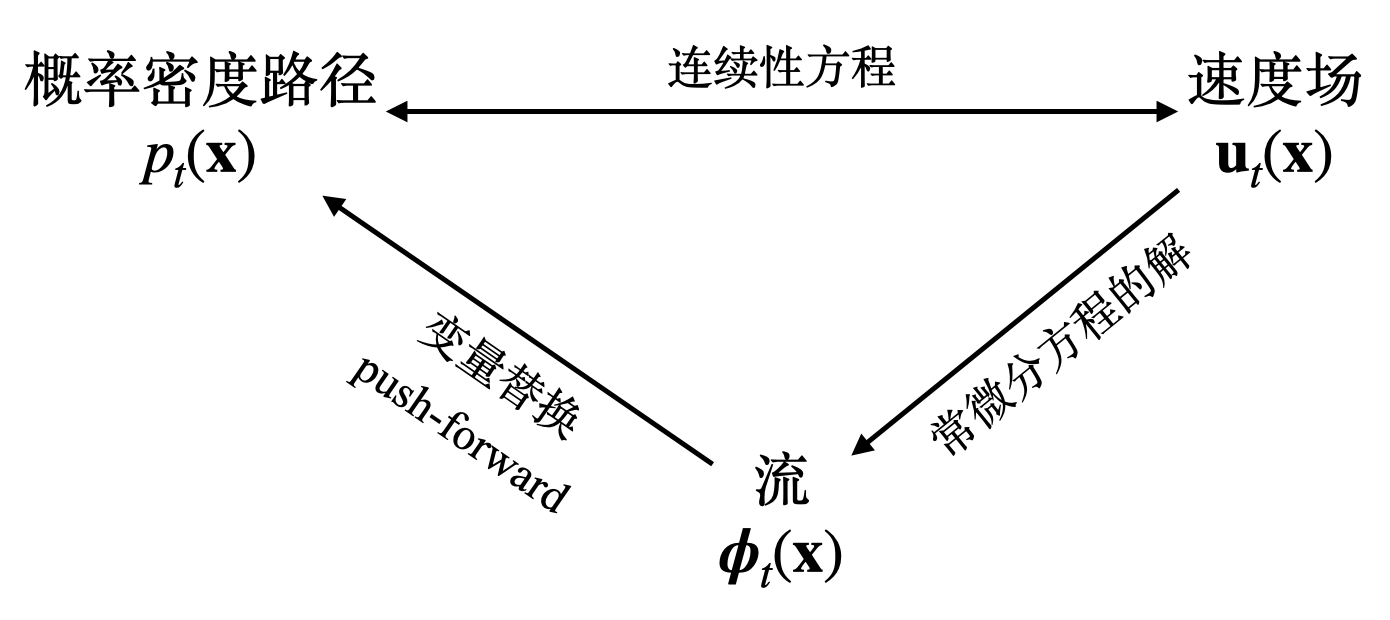
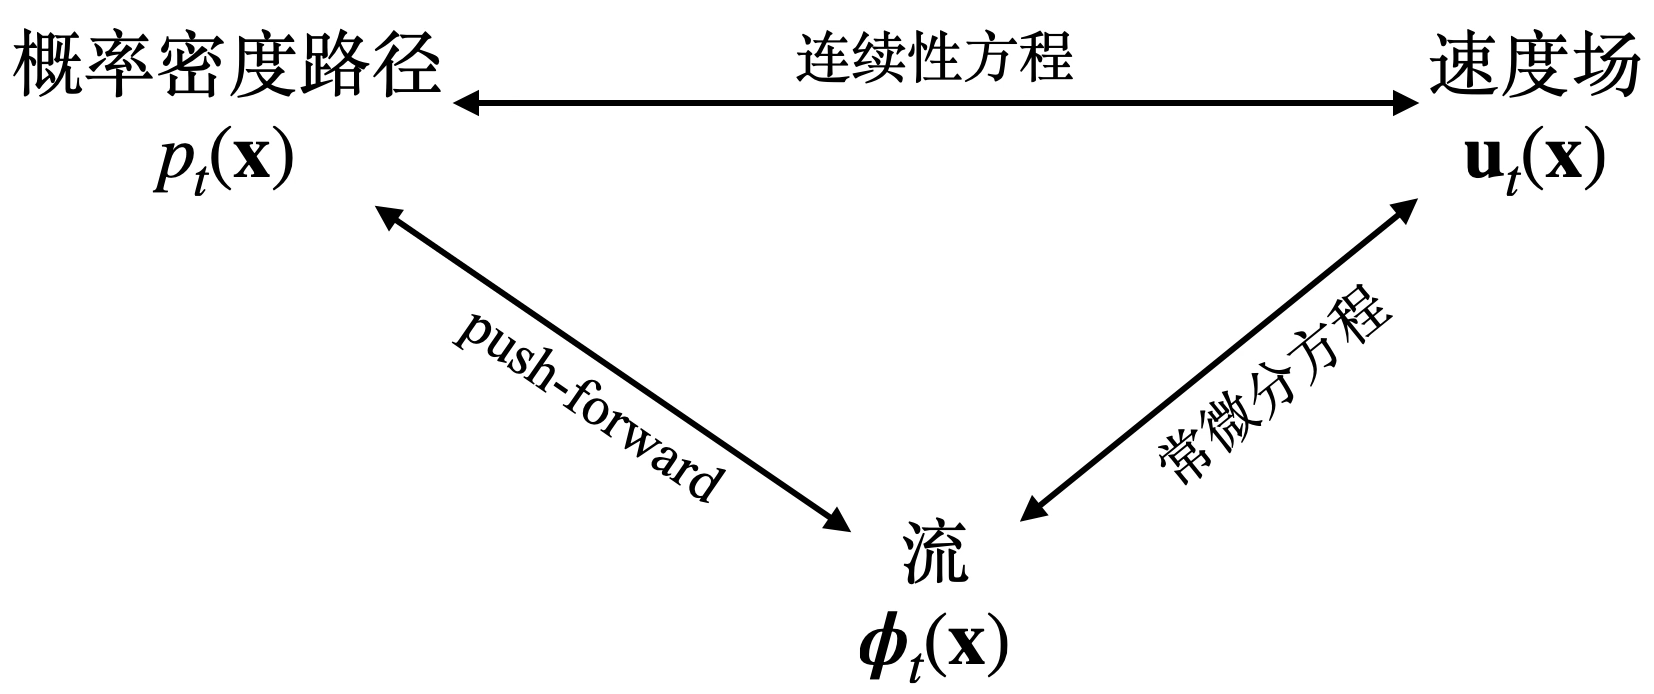
Site updated: 2025-11-13 15:46:54

diff --git a/2022/10/13/Score-Based-Generative-Models/index.html b/2022/10/13/Score-Based-Generative-Models/index.html
@@ -28,7 +28,7 @@
 <meta property="og:locale" content="zh_CN">
 <meta property="og:image" content="https://xyfjason.github.io/blog-main/gallery/cover/score-based.jpg">
 <meta property="article:published_time" content="2022-10-13T09:14:18.000Z">
-<meta property="article:modified_time" content="2025-09-09T02:26:45.327Z">
+<meta property="article:modified_time" content="2025-11-13T07:17:38.477Z">
 <meta property="article:author" content="xyfJASON">
 <meta property="article:tag" content="generative models">
 <meta name="twitter:card" content="summary_large_image">
@@ -277,7 +277,7 @@
       <span class="post-meta mr-2">
         <i class="iconfont icon-chart"></i>
         
-          6.5k 字
+          6.2k 字
         
       </span>
     
@@ -288,7 +288,7 @@
         
         
         
-          55 分钟
+          52 分钟
         
       </span>
     
@@ -339,15 +339,13 @@
 \newcommand{\T}{\mathsf T}
 \]</span></p>
 <h2 id="brief-introduction">Brief Introduction</h2>
-<p>在<a href="/blog-main/2022/09/29/%E4%BB%8EVAE%E5%88%B0DDPM/" title="从VAE到DDPM">从VAE到DDPM</a>一文中，我们从 VAE 出发得到了 DDPM 的理论框架，发现 DDPM 可以看作是具有人为指定的后验分布（即前向过程）的层次化 VAE。这一角度的代表论文是 2015 年的 Sohl-Dickstein et al.<sup id="fnref:1" class="footnote-ref"><a href="#fn:1" rel="footnote"><span class="hint--top hint--rounded" aria-label="Sohl-Dickstein, Jascha, Eric Weiss, Niru Maheswaranathan, and Surya Ganguli. Deep unsupervised learning using nonequilibrium thermodynamics. In *International Conference on Machine Learning*, pp. 2256-2265. PMLR, 2015.">[1]</span></a></sup> 和 2020 年的 DDPM<sup id="fnref:2" class="footnote-ref"><a href="#fn:2" rel="footnote"><span class="hint--top hint--rounded" aria-label="Ho, Jonathan, Ajay Jain, and Pieter Abbeel. Denoising diffusion probabilistic models. *Advances in Neural Information Processing Systems* 33 (2020): 6840-6851.">[2]</span></a></sup>。与此同时，<a target="_blank" rel="noopener" href="https://yang-song.net/">宋飏</a>博士从 score matching + Langevin dynamics (SMLD)<sup id="fnref:3" class="footnote-ref"><a href="#fn:3" rel="footnote"><span class="hint--top hint--rounded" aria-label="Song, Yang, and Stefano Ermon. Generative modeling by estimating gradients of the data distribution. *Advances in Neural Information Processing Systems* 32 (2019).">[3]</span></a></sup> 的角度出发得到了与 DDPM 本质相同的模型，称为 score-based generative models. 两个角度出发点截然不同，但殊途同归，也是非常有意思了。</p>
+<p>在<a href="/blog-main/2022/09/29/%E4%BB%8EVAE%E5%88%B0DDPM/" title="从VAE到DDPM">从VAE到DDPM</a>一文中，我们从 VAE 出发得到了 DDPM 的理论框架，发现 DDPM 可以看作是具有人为指定的后验分布（即前向过程）的层次化 VAE。这一角度的代表论文是 2015 年的 Sohl-Dickstein et al. (2015) 和 2020 年的 DDPM。与此同时，<a target="_blank" rel="noopener" href="https://yang-song.net/">宋飏</a>等人从 score matching + Langevin dynamics (SMLD) 的角度出发得到了与 DDPM 本质相同的模型，称为 score-based generative models. 两个角度出发点截然不同，但殊途同归，也是非常有意思了。</p>
 <h2 id="score-function">Score Function</h2>
 <p>考虑一个以 <span class="math inline">\(\theta\)</span> 为参数的能量模型 (EBM) <span class="math inline">\(f_\theta:\R^d\to\R\)</span>，依以下形式定义一个概率分布： <span class="math display">\[
 p_\theta(\x)=\frac{e^{-f_\theta(\x)}}{Z_\theta}\tag{1}\label{p}
-\]</span> 其中 <span class="math inline">\(Z_\theta=\int e^{-f_\theta(\x)}\mathrm{d}\x\)</span> 是归一化因子。训练生成模型无非就是希望极大化样本的对数似然：</p>
-<p><span class="math display">\[
+\]</span> 其中 <span class="math inline">\(Z_\theta=\int e^{-f_\theta(\x)}\mathrm{d}\x\)</span> 是归一化因子。训练生成模型无非就是极大化样本的对数似然： <span class="math display">\[
 \max_\theta\quad \E_{\pdata(\x)}[\log p_\theta(\x)]=\E_{\pdata(\x)}[-f_\theta(\x)]-\log Z_\theta
-\]</span> 我们发现一个问题：<span class="math inline">\(Z_\theta\)</span> 涉及对整个数据空间的积分，因而是 intractable 的。为了解决这个问题，score-based generative models 使用 <strong>score function</strong> 巧妙地回避开了 <span class="math inline">\(Z_\theta\)</span>. 对于任意一个概率分布 <span class="math inline">\(p\)</span>，score function 定义为对数概率密度函数对数据的梯度：</p>
-<p><span class="math display">\[
+\]</span> 我们发现一个问题：<span class="math inline">\(Z_\theta\)</span> 涉及对整个数据空间的积分，因而是 intractable 的。为了解决这个问题，score-based generative models 使用 <strong>score function</strong> 巧妙地回避开了 <span class="math inline">\(Z_\theta\)</span>. 对于任意一个概率分布 <span class="math inline">\(p\)</span>，score function 定义为对数概率密度函数对数据的梯度： <span class="math display">\[
 s(\x)=\nabla_\x\log p(\x)
 \]</span> 直观上，它是一个向量场，指示了从当前点去到概率密度更大的地方的方向，如下图所示：</p>
 <p><img src="https://yang-song.net/assets/img/score/score_contour.jpg" srcset="/blog-main/logo/imageloading.png" lazyload alt="source:https://yang-song.net/blog/2021/score/" width=40% /></p>
@@ -359,31 +357,27 @@ s_\theta(\x)\xrightarrow{\text{approximate}} s_\text{data}(\x)=\nabla_\x\log \pd
 <h2 id="score-matching">Score Matching</h2>
 <p>为了训练模型 <span class="math inline">\(s_\theta(\x)\)</span>，我们最小化它与 <span class="math inline">\(s_\text{data}(\x)\)</span> 的均方距离（也即是模型给出的分布和数据分布之间的 Fisher Divergence）： <span class="math display">\[
 \min_\theta\quad J_\text{ESM}(\theta)=\frac{1}{2}\E_{\pdata(\x)}\left[\|s_\text{data}(\x)-s_\theta(\x)\|_2^2\right]\tag{2}\label{esm}
-\]</span> 下标 ESM 是 Explicit Score Matching 的意思，explicit 是指该目标函数要求我们显式地知道 <span class="math inline">\(s_\text{data}(\x)\)</span>，但这恰恰是我们不知道的。围绕这个问题，我们下面介绍三种方法。</p>
+\]</span> 下标 ESM 是 Explicit Score Matching 的意思，explicit 是指该目标函数要求我们显式地知道 <span class="math inline">\(s_\text{data}(\x)\)</span>，但这恰恰是我们不知道的。围绕这个问题，我们下面介绍三种方法（注：如果你只关心扩散模型，只看 Denoising Score Matching 即可）。</p>
 <h3 id="implicit-score-matching">Implicit Score Matching</h3>
-<p>论文<sup id="fnref:5" class="footnote-ref"><a href="#fn:5" rel="footnote"><span class="hint--top hint--rounded" aria-label="Hyvärinen, Aapo, and Peter Dayan. Estimation of non-normalized statistical models by score matching. *Journal of Machine Learning Research* 6, no. 4 (2005).">[5]</span></a></sup>的作者指出，我们可以使用一个分部积分去掉 <span class="math inline">\(s_\text{data}(\x)\)</span>. 具体而言，将 <span class="math inline">\(\eqref{esm}\)</span> 式展开： <span class="math display">\[
+<p>Hyvärinen &amp; Dayan (2005) 指出，我们可以使用一个分部积分去掉 <span class="math inline">\(s_\text{data}(\x)\)</span>. 具体而言，将 <span class="math inline">\(\eqref{esm}\)</span> 式展开： <span class="math display">\[
+J_\text{ESM}(\theta)=\E_{\pdata(\x)}\left[\frac{1}{2}\|s_\text{data}(\x)\|^2-s_\text{data}(\x)^{\mathsf T} s_\theta(\x)+\frac{1}{2}\|s_\theta(\x)\|^2\right]
+\]</span> 第一项与 <span class="math inline">\(\theta\)</span> 无关可以略去，最后一项可以直接优化，因此只需处理中间项： <span class="math display">\[
 \begin{align}
-J_\text{ESM}(\theta)&amp;=\frac{1}{2}\E_{\pdata(\x)}\left[\|s_\text{data}(\x)-s_\theta(\x)\|_2^2\right]\\
-&amp;=\E_{\pdata(\x)}\left[\frac{1}{2}\|s_\text{data}(\x)\|^2-s_\text{data}(\x)^T s_\theta(\x)+\frac{1}{2}\|s_\theta(\x)\|^2\right]
-\end{align}
-\]</span> 第一项与 <span class="math inline">\(\theta\)</span> 无关可以略去，最后一项可以直接优化，而中间项还需要再处理一下： <span class="math display">\[
-\begin{align}
--\E_{\pdata(\x)}[s_\text{data}(\x)^Ts_\theta(\x)]
+-\E_{\pdata(\x)}[s_\text{data}(\x)^{\mathsf T}s_\theta(\x)]
 &amp;=-\int \pdata(\x) \sum_{i=1}^d s_\text{data}(\x)_is_\theta(\x)_i\mathrm{d}\x\\
 &amp;=-\sum_{i=1}^d \int \pdata(\x) \frac{\partial \log p_\text{data}(\x)}{\partial\x_i}s_\theta(\x)_i\mathrm{d}\x\\
-&amp;=-\sum_{i=1}^d\int \frac{\pdata(\x)}{\pdata(\x)}\frac{\partial\pdata(\x)}{\partial\x_i} s_\theta(\x)_i\mathrm{d}\x\\
 &amp;=-\sum_{i=1}^d\int \frac{\partial\pdata(\x)}{\partial\x_i} s_\theta(\x)_i \mathrm{d}\x
 \end{align}
 \]</span></p>
 <div class="note note-info">
-            <p><strong>一元函数分部积分</strong></p><p>设 <span class="math inline">\(f(x),g(x)\)</span> 是关于 <span class="math inline">\(x\)</span> 的一元函数且具有连续导数，且下文出现的积分都存在，由于： <span class="math display">\[[f(x)g(x)]&#39;=f(x)g&#39;(x)+g(x)f&#39;(x)\]</span> 两边同时在 <span class="math inline">\((-\infty,+\infty)\)</span> 上积分，得到： <span class="math display">\[\lim_{x\to+\infty}f(x)g(x)-\lim_{x\to-\infty}f(x)g(x)=\int_{-\infty}^{+\infty}f(x)g&#39;(x)\mathrm{d}x+\int_{-\infty}^{+\infty}g(x)f&#39;(x)\mathrm{d}x\]</span> 即： <span class="math display">\[\int_{-\infty}^{+\infty}f(x)g&#39;(x)\mathrm{d}x=\left.[f(x)g(x)]\right|^{+\infty}_{-\infty}-\int_{-\infty}^{+\infty}g(x)f&#39;(x)\mathrm{d}x\]</span> <strong>扩展到多元函数</strong></p><p>设 <span class="math inline">\(f(\x),g(\x)\)</span> 是关于 <span class="math inline">\(\x\)</span> 的多元标量函数，固定除 <span class="math inline">\(\x_i\)</span> 外的其他变元，所有求导均为对 <span class="math inline">\(\x_i\)</span> 的偏导，那么上述推导依旧使用，因此有结论： <span class="math display">\[\begin{align}\int_{-\infty}^{+\infty}f(\x)\frac{\partial{g(\x)}}{\partial\x_i}\mathrm{d}\x&amp;=\lim_{\x_i\to+\infty}f(\ldots,\x_i,\ldots)g(\ldots,\x_i,\ldots)\\&amp;-\lim_{\x_i\to-\infty}f(\ldots,\x_i,\ldots)g(\ldots,\x_i,\ldots)\\&amp;-\int_{-\infty}^{+\infty}g(\x)\frac{\partial{f(\x)}}{\partial\x_i}\mathrm{d}\x\end{align}\]</span></p>
+            <p><strong>复习：一元函数分部积分</strong></p><p>设 <span class="math inline">\(f(x),g(x)\)</span> 是关于 <span class="math inline">\(x\)</span> 的一元函数且具有连续导数，且下文出现的积分都存在，由于： <span class="math display">\[[f(x)g(x)]&#39;=f(x)g&#39;(x)+g(x)f&#39;(x)\]</span> 两边同时在 <span class="math inline">\((-\infty,+\infty)\)</span> 上积分，得到： <span class="math display">\[\lim_{x\to+\infty}f(x)g(x)-\lim_{x\to-\infty}f(x)g(x)=\int_{-\infty}^{+\infty}f(x)g&#39;(x)\mathrm{d}x+\int_{-\infty}^{+\infty}g(x)f&#39;(x)\mathrm{d}x\]</span> 即： <span class="math display">\[\int_{-\infty}^{+\infty}f(x)g&#39;(x)\mathrm{d}x=\left.[f(x)g(x)]\right|^{+\infty}_{-\infty}-\int_{-\infty}^{+\infty}g(x)f&#39;(x)\mathrm{d}x\]</span> <strong>扩展：多元函数分部积分</strong></p><p>设 <span class="math inline">\(f(\x),g(\x)\)</span> 是关于 <span class="math inline">\(\x\)</span> 的多元标量函数，固定除 <span class="math inline">\(\x_i\)</span> 外的其他变元，所有求导均为对 <span class="math inline">\(\x_i\)</span> 的偏导，那么上述推导依旧使用，因此有结论： <span class="math display">\[\begin{align}\int_{-\infty}^{+\infty}f(\x)\frac{\partial{g(\x)}}{\partial\x_i}\mathrm{d}\x&amp;=\lim_{\x_i\to+\infty}f(\ldots,\x_i,\ldots)g(\ldots,\x_i,\ldots)\\&amp;-\lim_{\x_i\to-\infty}f(\ldots,\x_i,\ldots)g(\ldots,\x_i,\ldots)\\&amp;-\int_{-\infty}^{+\infty}g(\x)\frac{\partial{f(\x)}}{\partial\x_i}\mathrm{d}\x\end{align}\]</span></p>
           </div>
-<p>应用分部积分，并且假设 <span class="math inline">\(\pdata(\ldots,\x_i,\ldots)s_\theta(\ldots,\x_i,\ldots)_i\to 0(\x_i\to\pm\infty)\)</span>，那么中间项变成： <span class="math display">\[
+<p>应用分部积分，并且假设 <span class="math inline">\(\pdata(\x)s_\theta(\x)\to 0\ (\Vert\x\Vert \to\infty)\)</span>，那么中间项变成： <span class="math display">\[
 \begin{align}
 -\sum_{i=1}^d\int \frac{\partial\pdata(\x)}{\partial\x_i} s_\theta(\x)_i \mathrm{d}\x
 &amp;=\sum_{i=1}^d\int \frac{\partial s_\theta(\x)_i}{\partial\x_i} \pdata(\x) \mathrm{d}\x\\
 &amp;=\int \pdata(\x) \sum_{i=1}^d \frac{\partial s_\theta(\x)_i}{\partial\x_i} \mathrm{d}\x\\
-&amp;=\E_{\x\sim\pdata}\left[\sum_{i=1}^d \frac{\partial s_\theta(\x)_i}{\partial\x_i}\right]
+&amp;=\E_{\pdata(\x)}\left[\sum_{i=1}^d \frac{\partial s_\theta(\x)_i}{\partial\x_i}\right]
 \end{align}
 \]</span> 于是最终优化目标为： <span class="math display">\[
 J_\text{ISM}(\theta)=\E_{\pdata(\x)}\left[\sum_{i=1}^d \left(\frac{\partial s_\theta(\x)_i}{\partial\x_i}+\frac{1}{2}s_\theta(\x)_i^2\right)\right]\tag{3}\label{ism}
@@ -391,11 +385,10 @@ J_\text{ISM}(\theta)=\E_{\pdata(\x)}\left[\sum_{i=1}^d \left(\frac{\partial s_\t
 J_\text{ISM}(\theta)=\E_{\pdata(\x)}\left[\text{tr}\left({\nabla_\x s_\theta(\x)}\right)+\frac{1}{2}\|s_\theta(\x)\|^2\right]\tag{3&#39;}\label{ism&#39;}
 \]</span> 当然，由于 <span class="math inline">\(s_\theta(\x)\)</span> 本身是 <span class="math inline">\(\log p_\theta(\x)\)</span> 的梯度，所以前者的 Jacobian 矩阵，也是后者的 Hessian 矩阵，所以也可以写成： <span class="math display">\[
 J_\text{ISM}(\theta)=\E_{\pdata(\x)}\left[\text{tr}\left({\nabla^2_\x \log p_\theta(\x)}\right)+\frac{1}{2}\|\nabla_\x\log p_\theta(\x)\|^2\right]\tag{3&#39;&#39;}\label{ism&#39;&#39;}
-\]</span> 只是记号上的不同罢了。</p>
-<p>可以看见，现在的优化目标期望里面已经没有 <span class="math inline">\(\pdata(\x)\)</span> 或 <span class="math inline">\(s_\text{data}(\x)\)</span> 了，而期望本身通过训练过程的采样来近似。</p>
+\]</span> 只是记号上的不同罢了。可以看见，现在的优化目标里没有 <span class="math inline">\(s_\text{data}(\x)\)</span> 了，因而可以依此训练。</p>
 <p>当然，上述推导过程要成立也有一些条件，比如用分部积分要求 <span class="math inline">\(s_\theta(\x)\)</span> 和 <span class="math inline">\(\pdata(\x)\)</span> 可导，出现的所有期望要存在，以及上文已经提到过的 <span class="math inline">\(\pdata(\x)s_\theta(\x)\to 0\ (\Vert\x\Vert \to\infty)\)</span>. 好在这些条件都容易满足。</p>
 <h3 id="denoising-score-matching">Denoising Score Matching</h3>
-<p>上文中，我们使用分部积分巧妙地去掉了 <span class="math inline">\(s_\text{data}(\x)=\nabla_\x \log\pdata(\x)\)</span>，但是代价是引入了 <span class="math inline">\(\text{tr}\left(\nabla_\x s_\theta(\x)\right)\)</span>，意味着我们还要对 score function 求导（即求 <span class="math inline">\(\log\pdata(\x)\)</span> 的 Hessian 矩阵）。虽然这个操作可以通过 <code>torch.autograd.grad()</code> 实现，但反向传播次数增加了 <span class="math inline">\(d\)</span> 倍（<span class="math inline">\(d\)</span> 为数据维数），在深度网络和高维数据的场景下效率很差。另一种直接的想法是，既然我们不知道 <span class="math inline">\(\pdata\)</span>，那就对数据做非参估计呗。考虑使用带高斯核的 Parzen 窗做非参估计（也即核密度估计）： <span class="math display">\[
+<p>上文中，我们使用分部积分巧妙地去掉了 <span class="math inline">\(s_\text{data}(\x)=\nabla_\x \log\pdata(\x)\)</span>，但是代价是引入了 <span class="math inline">\(\text{tr}\left(\nabla_\x s_\theta(\x)\right)\)</span>，意味着我们还要对 score function 求导。虽然这个操作可以通过 <code>torch.autograd.grad()</code> 实现，但反向传播次数增加了 <span class="math inline">\(d\)</span> 倍（<span class="math inline">\(d\)</span> 为数据维数），在深度网络和高维数据的场景下效率很差。另一种直接的想法是，既然我们不知道 <span class="math inline">\(\pdata\)</span>，那就对数据做非参估计呗。考虑使用带高斯核的 Parzen 窗做非参估计（也即核密度估计）： <span class="math display">\[
 \begin{align}
 &amp;q_\sigma(\tilde\x)=\frac{1}{N}\sum_{i=1}^N K_\sigma\left(\tilde\x-\x_i\right)\\
 &amp;K_\sigma(\tilde\x-\x_i)=\frac{1}{(2\pi)^{d/2}\sigma^d}e^{-\frac{1}{2\sigma^2}\|\tilde\x-\x_i\|_2^2}
@@ -428,13 +421,11 @@ J_\text{DSM}(\theta)=\E_{q_\sigma(\tilde\x,\x)}\left[\frac{1}{2}\left\|\nabla_{\
 \]</span></p>
 <p>直观上，<span class="math inline">\(\x-\tilde\x\)</span> 指出了加噪数据 <span class="math inline">\(\tilde\x\)</span> 回到无噪声数据的移动方向，这正与 score function 的定义相符。</p>
 <h3 id="sliced-score-matching">Sliced Score Matching</h3>
-<blockquote>
-<p>本节其实与以去噪为基础的扩散模型关系不大，但为了完整性，同时考虑到它也是宋飏大佬的工作，就顺便读了读论文。</p>
-</blockquote>
-<p>Denoising score matching 虽然解决了 implicit score matching 无法 scale 到深度网络和高维数据的问题，但是本身也有两个问题：只能学习带有噪声的分布、性能对 noise level 很敏感。而宋飏等人在 2020 年提出的 sliced score matching<sup id="fnref:7" class="footnote-ref"><a href="#fn:7" rel="footnote"><span class="hint--top hint--rounded" aria-label="Song, Yang, Sahaj Garg, Jiaxin Shi, and Stefano Ermon. Sliced score matching: A scalable approach to density and score estimation. In *Uncertainty in Artificial Intelligence*, pp. 574-584. PMLR, 2020.">[7]</span></a></sup> 是另一种解决方法，其思想是把 <span class="math inline">\(s_\theta(\x)\)</span> 随机投影到向量 <span class="math inline">\(\mathbf v\)</span> 上，只在投影的方向上做匹配。具体而言，<span class="math inline">\(\eqref{esm}\)</span> 式改写作：</p>
-<p><span class="math display">\[
+<p>Denoising score matching 虽然解决了 implicit score matching 无法 scale 到深度网络和高维数据的问题，但是本身也有两个问题：只能学习带有噪声的分布、性能对 noise level 很敏感。而宋飏等人在 2020 年提出的 sliced score matching 是另一种解决方法，其思想是把 <span class="math inline">\(s_\theta(\x)\)</span> 随机投影到向量 <span class="math inline">\(\mathbf v\)</span> 上，只在投影的方向上做匹配。具体而言，<span class="math inline">\(\eqref{esm}\)</span> 式改写作： <span class="math display">\[
 J_\text{SSM(explicit)}=\frac{1}{2}\E_{p_{\v}(\v)}\E_{\pdata(\x)}\left[\left(\v^\T s_\text{data}(\x)-\v^\T s_\theta(\x)\right)^2\right]
-\]</span> 并要求 <span class="math inline">\(\E_{p_\v(\v)}[\v\v^\T]\succ 0\)</span> 且 <span class="math inline">\(\E_{p_\v(\v)}\left[\Vert\v\Vert_2^2\right]&lt;\infty\)</span>. 常用的 <span class="math inline">\(p_\v(\v)\)</span> 包括标准多元正态分布 <span class="math inline">\(\mathcal N(0,\mathbf I)\)</span>、多元 Rademacher 分布（<span class="math inline">\(\{\pm 1\}^d\)</span> 上的均匀分布）、超球面 <span class="math inline">\(\mathbb S^{d-1}\)</span> 上的均匀分布等。</p>
+\]</span> 其中投影方向 <span class="math inline">\(\mathbf v\)</span> 应满足： <span class="math display">\[
+\E_{p_\v(\v)}[\v\v^\T]\succ 0,\quad\E_{p_\v(\v)}\left[\Vert\v\Vert_2^2\right]&lt;\infty
+\]</span> 常用的 <span class="math inline">\(p_\v(\v)\)</span> 包括标准多元正态分布 <span class="math inline">\(\mathcal N(0,\mathbf I)\)</span>、多元 Rademacher 分布（<span class="math inline">\(\{\pm 1\}^d\)</span> 上的均匀分布）、超球面 <span class="math inline">\(\mathbb S^{d-1}\)</span> 上的均匀分布等。</p>
 <p>与原始 score matching 类似，我们可以用分部积分去掉 <span class="math inline">\(s_\text{data}(\x)\)</span>. 同样只需着重考虑中间项： <span class="math display">\[
 \begin{align}
 -\E_{p_{\v}(\v)}\left[\E_{\pdata(\x)}\left[\left(\v^\T s_\text{data}(\x)\right)\left(\v^\T s_\theta(\x)\right)\right]\right]
@@ -452,7 +443,7 @@ J_\text{SSM(explicit)}=\frac{1}{2}\E_{p_{\v}(\v)}\E_{\pdata(\x)}\left[\left(\v^\
 =&amp;-\E_{p_{\v}(\v)}\left[\sum_{i=1}^d v_i\left(\lim_{\x_i\to+\infty}\pdata(\x)\left(\v^\T s_\theta(\x)\right)-\lim_{\x_i\to-\infty}\pdata(\x)\left(\v^\T s_\theta(\x)\right)\right)\right]+\E_{p_\v(\v)}\left[\int\pdata(\x)\left(\sum_{i=1}^d v_i\v^\T \frac{\partial s_\theta(\x))}{\partial\x_i}\right)\mathrm{d}\x\right]\\
 =&amp;-\E_{p_{\v}(\v)}\left[\sum_{i=1}^d v_i\left(\lim_{\x_i\to+\infty}\pdata(\x)\left(\v^\T s_\theta(\x)\right)-\lim_{\x_i\to-\infty}\pdata(\x)\left(\v^\T s_\theta(\x)\right)\right)\right]+\E_{p_\v(\v)}\left[\E_{\pdata(\x)}\left[\v^\T \nabla_\x s_\theta(\x)\v\right]\right]\\
 \end{align}
-\]</span> 后面那项是我们想要的，现在需要证明前面那项等于 0. 在原始 score matching 中，我们是通过假设 <span class="math inline">\(\pdata(\x)s_\theta(\x)\to 0\ (\Vert\x\Vert\to \infty)\)</span> 完成的，但是现在多了个 <span class="math inline">\(\v\)</span> 来搅局。不过好在最后要对 <span class="math inline">\(p_\v(\v)\)</span> 求期望，所以我们依旧能够期待前项可以等于 0. 利用绝对值不等式把 <span class="math inline">\(\v\)</span> 拆出来，并利用柯西不等式，我们有： <span class="math display">\[
+\]</span> 后面那项是我们想要的，现在需要证明前面那项等于 0. 在原始 score matching 中，这是通过假设 <span class="math inline">\(\pdata(\x)s_\theta(\x)\to 0\ (\Vert\x\Vert\to \infty)\)</span> 完成的，但是现在多了个 <span class="math inline">\(\v\)</span> 来搅局。不过好在最后要对 <span class="math inline">\(p_\v(\v)\)</span> 求期望，所以我们依旧能够期待前项可以等于 0. 利用绝对值不等式把 <span class="math inline">\(\v\)</span> 拆出来，并利用柯西不等式，我们有： <span class="math display">\[
 \begin{align}
 &amp;~\left|\E_{p_{\v}(\v)}\left[\sum_{i=1}^d v_i\left(\lim_{\x_i\to+\infty}\pdata(\x)\left(\v^\T s_\theta(\x)\right)-\lim_{\x_i\to-\infty}\pdata(\x)\left(\v^\T s_\theta(\x)\right)\right)\right]\right|\\
 \leq&amp;~\left|\E_{p_{\v}(\v)}\left[\sum_{i=1}^d v_i\left(\lim_{\x_i\to+\infty}\pdata(\x)\left(\v^\T s_\theta(\x)\right)\right)\right]\right|+\left|\E_{p_\v(\v)}\left[\sum_{i=1}^d v_i\left(\lim_{\x_i\to-\infty}\pdata(\x)\left(\v^\T s_\theta(\x)\right)\right)\right]\right|\\
@@ -484,8 +475,8 @@ J_\text{SSM-VR}=\E_{\pdata(\x)}\left[\E_{p_\v(\v)}\left[\v^\T \nabla_\x s_\theta
 <p><img src="https://yang-song.net/assets/img/score/pitfalls.jpg" srcset="/blog-main/logo/imageloading.png" lazyload alt="source:https://yang-song.net/blog/2021/score/" width=80% /></p>
 <p>又由于我们的初始化点极有可能落在低密度区域中，所以不准确的 score function 将对采样过程产生极大的影响。</p>
 <p>其次，即便 score function 能被准确预测，但对于被低密度区域隔开的两个分布来说，Langevin dynamics 很难在有限步数内收敛到正确的分布（尽管 Langevin dynamics 在理论上能收敛到正确的分布，但可能需要很小的步长和很多的步数），如图所示：</p>
-<p><img src="fig3.png" srcset="/blog-main/logo/imageloading.png" lazyload alt="source:Generative modeling by estimating gradients of the data distribution." width=80% /></p>
-<p>真实情况是右上的正态分布权重更大，但中图的采样结果显示两个分布被予以了几乎相同的权重。</p>
+<p><img src="fig3.png" srcset="/blog-main/logo/imageloading.png" lazyload alt="source:Generative modeling by estimating gradients of the data distribution." width=60% /></p>
+<p>真实情况是右上的正态分布权重更大，但采样结果显示两个分布被予以了几乎相同的权重。</p>
 <p>宋飏等人提出解决这两个问题的办法是：<strong>给数据添加高斯噪声，并且随着 Langevin dynamics 的进行逐渐减小 noise level（退火）</strong>。添加噪声后的数据遍布整个空间，填充了低密度区域，因此模型能够得到更多的监督信号，Langevin dynamics 也能更快的收敛到高密度区域；同时，逐渐减小的噪声使得带噪分布最终收敛到真实分布，因此也能保证采样质量不受影响。</p>
 <p><img src="https://yang-song.net/assets/img/score/single_noise.jpg" srcset="/blog-main/logo/imageloading.png" lazyload alt="source:https://yang-song.net/blog/2021/score/" width=80% /></p>
 <p>形式化地说，我们确定一个逐渐减小的噪声序列 <span class="math inline">\(\{\sigma_i\}_{i=1}^L\)</span>，那么对应 <span class="math inline">\(\sigma_i\)</span> 的噪声扰动后的数据分布为： <span class="math display">\[
@@ -494,8 +485,7 @@ q_{\sigma_i}(\x)=\int\pdata(\mathbf t) \mathcal N\left(\x;\mathbf t,\sigma_i^2\m
 s_\theta(\x, \sigma_i)\xrightarrow{\text{approximate}} \nabla_\x\log q_{\sigma_i}(\x)
 \]</span> 于是训练目标就是对每一个 noise level 做 score matching： <span class="math display">\[
 \mathcal L\left(\theta,\{\sigma_i\}_{i=1}^L\right)=\frac{1}{L}\sum_{i=1}^L \lambda(\sigma_i)\E_{q_{\sigma_i}(\x)}\left[\|\nabla_\x\log q_{\sigma_i}(\x)-s_\theta(\x,\sigma_i) \|^2\right]
-\]</span> 其中 <span class="math inline">\(\lambda(\sigma_i)\)</span> 是给不同 noise level 加的权重。考虑到 denoising score matching 正好符合现在的加噪去噪设定，所以我们选择它而非 sliced score matching. 根据前文的叙述，训练目标变换为：</p>
-<p><span class="math display">\[
+\]</span> 其中 <span class="math inline">\(\lambda(\sigma_i)\)</span> 是给不同 noise level 加的权重。考虑到 denoising score matching 正好符合现在的加噪去噪设定，所以我们选择它而非 sliced score matching. 根据前文的推导，训练目标变换为： <span class="math display">\[
 \begin{align}
 \mathcal L\left(\theta,\{\sigma_i\}_{i=1}^L\right)&amp;=\frac{1}{L}\sum_{i=1}^L \lambda(\sigma_i)\E_{\pdata(\x)}\E_{q_{\sigma_i}(\tilde\x\vert\x)}\left[\frac{1}{2}\left\|\nabla_{\tilde\x}\log q_{\sigma_i}(\tilde \x\vert\x) -s_\theta(\tilde\x,\sigma_i)\right\|^2 \right]\\
 &amp;=\frac{1}{L}\sum_{i=1}^L \lambda(\sigma_i)\E_{\pdata(\x)}\E_{q_{\sigma_i}(\tilde\x\vert\x)}\left[\frac{1}{2}\left\|\frac{\x-\tilde\x}{\sigma_i^2} -s_\theta(\tilde\x,\sigma_i)\right\|^2 \right]
@@ -505,18 +495,6 @@ s_\theta(\x, \sigma_i)\xrightarrow{\text{approximate}} \nabla_\x\log q_{\sigma_i
 <p>训练完成后，我们就可以随机初始化采样点，逐渐减小 noise level，在每个 level 下通过 Langevin dynamics 以步长 <span class="math inline">\(\alpha_i\)</span> 更新若干步，最终生成新的数据。算法流程图如下所示：</p>
 <p><img src="alg.png" srcset="/blog-main/logo/imageloading.png" lazyload alt="source:Generative modeling by estimating gradients of the data distribution." width=40% /></p>
 <p>其中步长设置为 <span class="math inline">\(\alpha_i=\epsilon\cdot\sigma_i^2/\sigma_L^2\propto \sigma_i^2\)</span> 的动机是保证不同 noise level 下 Langevin dynamics 的信噪比 <span class="math inline">\(\frac{\alpha_i s_\theta(\x,\sigma_i)}{2\sqrt{\alpha_i}\mathbf z}\)</span> 的模长固定。</p>
-<p><br/></p>
-<p>这一代的 NCSN 已然能与 GAN 媲美，但局限在 32x32 的大小。在后续的工作<sup id="fnref:4" class="footnote-ref"><a href="#fn:4" rel="footnote"><span class="hint--top hint--rounded" aria-label="Song, Yang, and Stefano Ermon. Improved techniques for training score-based generative models. *Advances in neural information processing systems* 33 (2020): 12438-12448.">[4]</span></a></sup>中，宋飏等人探索了更多的技巧，进一步地提升了图像生成质量，并能稳定生成 256x256 的图片。这些技巧包括：</p>
-<ul>
-<li><p>选择 <span class="math inline">\(\sigma_1\)</span> 与训练数据中两两之间的最大欧氏距离差不多大。</p></li>
-<li><p>选择 <span class="math inline">\(\{\sigma_i\}_{i=1}^L\)</span> 为公比为 <span class="math inline">\(\gamma\)</span> 的等比序列，且 <span class="math display">\[
-\Phi\left(\sqrt{2d}(\gamma-1)+3\gamma\right)-\Phi\left(\sqrt{2d}(\gamma-1)-3\gamma\right)\approx 0.5
-\]</span></p></li>
-<li><p>将 NCSN 参数化为 <span class="math inline">\(s_\theta(\x,\sigma)=s_\theta(\x)/\sigma\)</span>，其中 <span class="math inline">\(s_\theta(\x)\)</span> 是一个无条件的网络。</p></li>
-<li><p>选择 <span class="math inline">\(T\)</span>（每个 noise level 下 Langevin dynamics 的步数）在可承受范围尽可能大，并选择 <span class="math inline">\(\epsilon\)</span>（Langevin dynamics 里与步长有关的参数）使得一个复杂的式子（懒得抄了）约等于 <span class="math inline">\(1\)</span>.</p></li>
-<li><p>在采样的时候使用 EMA model.</p></li>
-</ul>
-<p>具体内容和分析本文不再叙述，感兴趣的读者可以去看论文。</p>
 <h2 id="connection-to-ddpm">Connection to DDPM</h2>
 <p>在引言里，我们说 SMLD 和 DDPM 本质是相同的，现在来看看为什么。</p>
 <h3 id="forward-process">Forward Process</h3>
@@ -587,25 +565,25 @@ s_\theta(\x_t,t)=-\frac{1}{\sqrt{1-\bar\alpha_t}}\epsilon_\theta(\x_t,t)\tag{10}
 <span id="fn:7" class="footnote-text"><span>Song, Yang, Sahaj Garg, Jiaxin Shi, and Stefano Ermon. Sliced score matching: A scalable approach to density and score estimation. In <em>Uncertainty in Artificial Intelligence</em>, pp. 574-584. PMLR, 2020. <a href="#fnref:7" rev="footnote" class="footnote-backref"> ↩</a></span></span>
 </li>
 <li>
-<span id="fn:8" class="footnote-text"><span>Yang Song. Generative Modeling by Estimating Gradients of the Data Distribution. https://yang-song.net/blog/2021/score/ <a href="#fnref:8" rev="footnote" class="footnote-backref"> ↩</a></span></span>
+<span id="fn:8" class="footnote-text"><span>Yang Song. Sliced Score Matching: A Scalable Approach to Density and Score Estimation. <a target="_blank" rel="noopener" href="https://yang-song.net/blog/2019/ssm/" class="uri">https://yang-song.net/blog/2019/ssm/</a> <a href="#fnref:8" rev="footnote" class="footnote-backref"> ↩</a></span></span>
 </li>
 <li>
-<span id="fn:9" class="footnote-text"><span>Denoising Diffusion-based Generative Modeling: Foundations and Applications. https://cvpr2022-tutorial-diffusion-models.github.io <a href="#fnref:9" rev="footnote" class="footnote-backref"> ↩</a></span></span>
+<span id="fn:9" class="footnote-text"><span>Yang Song. Generative Modeling by Estimating Gradients of the Data Distribution. <a target="_blank" rel="noopener" href="https://yang-song.net/blog/2021/score/" class="uri">https://yang-song.net/blog/2021/score/</a> <a href="#fnref:9" rev="footnote" class="footnote-backref"> ↩</a></span></span>
 </li>
 <li>
-<span id="fn:10" class="footnote-text"><span>Chih-Sheng Chen. Score Matching 系列 (一) Non-normalized 模型估計. https://bobondemon.github.io/2022/01/08/Estimation-of-Non-Normalized-Statistical-Models-by-Score-Matching/ <a href="#fnref:10" rev="footnote" class="footnote-backref"> ↩</a></span></span>
+<span id="fn:10" class="footnote-text"><span>Denoising Diffusion-based Generative Modeling: Foundations and Applications. <a target="_blank" rel="noopener" href="https://cvpr2022-tutorial-diffusion-models.github.io" class="uri">https://cvpr2022-tutorial-diffusion-models.github.io</a> <a href="#fnref:10" rev="footnote" class="footnote-backref"> ↩</a></span></span>
 </li>
 <li>
-<span id="fn:11" class="footnote-text"><span>Chih-Sheng Chen. Score Matching 系列 (二) Denoising Score Matching (DSM) 改善效率並可 Scalable. https://bobondemon.github.io/2022/03/06/A-Connection-Between-Score-Matching-and-Denoising-Autoencoders/ <a href="#fnref:11" rev="footnote" class="footnote-backref"> ↩</a></span></span>
+<span id="fn:11" class="footnote-text"><span>Chih-Sheng Chen. Score Matching 系列 (一) Non-normalized 模型估計. <a target="_blank" rel="noopener" href="https://bobondemon.github.io/2022/01/08/Estimation-of-Non-Normalized-Statistical-Models-by-Score-Matching/" class="uri">https://bobondemon.github.io/2022/01/08/Estimation-of-Non-Normalized-Statistical-Models-by-Score-Matching/</a> <a href="#fnref:11" rev="footnote" class="footnote-backref"> ↩</a></span></span>
 </li>
 <li>
-<span id="fn:12" class="footnote-text"><span>Chih-Sheng Chen. Score Matching 系列 (三) Sliced Score Matching (SSM) 同時保持效率和效果. https://bobondemon.github.io/2022/03/06/Sliced-Score-Matching-A-Scalable-Approach-to-Density-and-Score-Estimation/ <a href="#fnref:12" rev="footnote" class="footnote-backref"> ↩</a></span></span>
+<span id="fn:12" class="footnote-text"><span>Chih-Sheng Chen. Score Matching 系列 (二) Denoising Score Matching (DSM) 改善效率並可 Scalable. <a target="_blank" rel="noopener" href="https://bobondemon.github.io/2022/03/06/A-Connection-Between-Score-Matching-and-Denoising-Autoencoders/" class="uri">https://bobondemon.github.io/2022/03/06/A-Connection-Between-Score-Matching-and-Denoising-Autoencoders/</a> <a href="#fnref:12" rev="footnote" class="footnote-backref"> ↩</a></span></span>
 </li>
 <li>
-<span id="fn:13" class="footnote-text"><span>扩散模型与能量模型，Score-Matching和SDE，ODE的关系 - 中森的文章 - 知乎 https://zhuanlan.zhihu.com/p/576779879 <a href="#fnref:13" rev="footnote" class="footnote-backref"> ↩</a></span></span>
+<span id="fn:13" class="footnote-text"><span>Chih-Sheng Chen. Score Matching 系列 (三) Sliced Score Matching (SSM) 同時保持效率和效果. <a target="_blank" rel="noopener" href="https://bobondemon.github.io/2022/03/06/Sliced-Score-Matching-A-Scalable-Approach-to-Density-and-Score-Estimation/" class="uri">https://bobondemon.github.io/2022/03/06/Sliced-Score-Matching-A-Scalable-Approach-to-Density-and-Score-Estimation/</a> <a href="#fnref:13" rev="footnote" class="footnote-backref"> ↩</a></span></span>
 </li>
 <li>
-<span id="fn:14" class="footnote-text"><span>Yang Song. Sliced Score Matching: A Scalable Approach to Density and Score Estimation. https://yang-song.net/blog/2019/ssm/ <a href="#fnref:14" rev="footnote" class="footnote-backref"> ↩</a></span></span>
+<span id="fn:14" class="footnote-text"><span>扩散模型与能量模型，Score-Matching和SDE，ODE的关系 - 中森的文章 - 知乎 <a target="_blank" rel="noopener" href="https://zhuanlan.zhihu.com/p/576779879" class="uri">https://zhuanlan.zhihu.com/p/576779879</a> <a href="#fnref:14" rev="footnote" class="footnote-backref"> ↩</a></span></span>
 </li>
 </ol>
 </div>

diff --git a/2024/06/22/Flow-Matching/index.html b/2024/06/22/Flow-Matching/index.html
@@ -28,7 +28,7 @@
 <meta property="og:locale" content="zh_CN">
 <meta property="og:image" content="https://xyfjason.github.io/blog-main/gallery/cover/flow-matching.jpg">
 <meta property="article:published_time" content="2024-06-22T13:08:11.000Z">
-<meta property="article:modified_time" content="2025-11-12T03:06:35.288Z">
+<meta property="article:modified_time" content="2025-11-13T07:44:31.957Z">
 <meta property="article:author" content="xyfJASON">
 <meta property="article:tag" content="generative models">
 <meta name="twitter:card" content="summary_large_image">
@@ -335,8 +335,7 @@
 <h3 id="概率密度路径">概率密度路径</h3>
 <p>粒子在流动的过程中，其概率分布在不断地改变。为描述各个时刻的概率分布，定义<strong>概率密度路径 (probability density path)</strong> 为： <span class="math display">\[
 p:[0,1]\times \mathbb R^d\to\mathbb R_{&gt;0},\quad(t,\mathbf x)\mapsto p_t(\mathbf x)
-\]</span> 其中 <span class="math inline">\(p_t(\mathbf x)\)</span> 表示 <span class="math inline">\(t\)</span> 时刻 <span class="math inline">\(\mathbf x\)</span> 位置处的概率密度。称之为“路径”是因为 <span class="math inline">\(t\mapsto p_t\)</span> 可以视作无限维概率分布空间中的流形上的一条路径。</p>
-<p>显然，对任意时刻 <span class="math inline">\(t\in[0,1]\)</span>，概率密度 <span class="math inline">\(p_t(\mathbf x)\)</span> 都应满足归一化条件：<span class="math inline">\(\int p_t(\mathbf x)\mathrm d\mathbf x=1\)</span>. 因此，区别于一般的流体，我们称这种模型为归一化流；又由于时间是连续的，因此称为连续归一化流。</p>
+\]</span> 其中 <span class="math inline">\(p_t(\mathbf x)\)</span> 表示 <span class="math inline">\(t\)</span> 时刻 <span class="math inline">\(\mathbf x\)</span> 位置处的概率密度。称之为“路径”是因为 <span class="math inline">\(t\mapsto p_t\)</span> 可以视作无限维概率分布空间中的流形上的一条路径。显然，对任意时刻 <span class="math inline">\(t\in[0,1]\)</span>，概率密度 <span class="math inline">\(p_t(\mathbf x)\)</span> 都应满足归一化条件：<span class="math inline">\(\int p_t(\mathbf x)\mathrm d\mathbf x=1\)</span>. 因此，区别于一般的流体，我们称这种模型为归一化流；又由于时间是连续的，因此称为连续归一化流。</p>
 <h3 id="速度场与连续性方程">速度场与连续性方程</h3>
 <p>考虑空间中粒子在各个时刻的瞬时速度，定义<strong>速度场 (velocity field)</strong> 为： <span class="math display">\[
 \mathbf u:[0,1]\times\mathbb R^d\to\mathbb R^d,\quad (t,\mathbf x)\mapsto \mathbf u_t(\mathbf x)
@@ -344,10 +343,10 @@ p:[0,1]\times \mathbb R^d\to\mathbb R_{&gt;0},\quad(t,\mathbf x)\mapsto p_t(\mat
 \frac{\partial}{\partial t}p_t(\mathbf x)+\nabla\cdot(p_t(\mathbf x)\mathbf u_t(\mathbf x))=0
 \]</span> 直观上，连续性方程的第一项表示单位时间内 <span class="math inline">\(\mathbf x\)</span> 位置处粒子的增加/减少量，第二项表示单位时间内 <span class="math inline">\(\mathbf x\)</span> 位置处粒子的流出/流入量，显然粒子增加量就是流入量，因此连续性方程成立。熟悉随机微分方程的读者可能会发现，连续性方程其实就是 Fokker-Planck 方程在扩散项为零时的情形。</p>
 <p>值得注意的是，概率密度路径与速度场不是一一对应的关系，不同的速度场可以产生相同的概率密度路径。例如，给 <span class="math inline">\(\mathbf u_t(\mathbf x)\)</span> 加上散度为零的场（无源场），就得到了一个新的速度场，并且连续性方程依旧成立，所以概率密度路径不变。</p>
-<h3 id="流与变量替换">流与变量替换</h3>
+<h3 id="流与-push-forward-方程">流与 push-forward 方程</h3>
 <p>粒子沿着速度场运动，得到的轨迹称为<strong>流 (flow)</strong>。具体而言，记流为： <span class="math display">\[
 \boldsymbol\phi:[0,1]\times\mathbb R^d\to\mathbb R^d,\quad (t,\mathbf x)\mapsto\boldsymbol\phi_t(\mathbf x)
-\]</span> 其中 <span class="math inline">\(\boldsymbol\phi_t(\mathbf x)\)</span> 表示 <span class="math inline">\(0\)</span> 时刻位于 <span class="math inline">\(\mathbf x\)</span> 处的粒子在 <span class="math inline">\(t\)</span> 时刻运动到的位置。换句话说，随着 <span class="math inline">\(t\)</span> 从 0 到 1 变化，<span class="math inline">\(\boldsymbol\phi_t(\mathbf x)\)</span> 形成了从 <span class="math inline">\(\mathbf x\)</span> 位置出发的粒子运动的轨迹。流与速度场的关系可由下述常微分方程描述： <span class="math display">\[
+\]</span> 其中 <span class="math inline">\(\boldsymbol\phi_t(\mathbf x)\)</span> 表示 <span class="math inline">\(0\)</span> 时刻位于 <span class="math inline">\(\mathbf x\)</span> 处的粒子在 <span class="math inline">\(t\)</span> 时刻运动到的位置。换句话说，随着 <span class="math inline">\(t\)</span> 从 0 到 1 变化，<span class="math inline">\(\boldsymbol\phi_t(\mathbf x)\)</span> 形成了从 <span class="math inline">\(\mathbf x\)</span> 位置出发的粒子运动的轨迹。给定一个速度场，流可定义为下述常微分方程的解： <span class="math display">\[
 \begin{align}
 \frac{\partial}{\partial t}\boldsymbol\phi_t(\mathbf x)&amp;=\mathbf u_t(\boldsymbol\phi_t(\mathbf x))\\
 \boldsymbol\phi_0(\mathbf x)&amp;=\mathbf x

diff --git a/2024/03/02/子空间的距离/index.html b/2024/03/02/子空间的距离/index.html
@@ -30,8 +30,8 @@
 <meta property="article:published_time" content="2024-03-02T12:30:11.000Z">
 <meta property="article:modified_time" content="2025-09-09T11:37:32.282Z">
 <meta property="article:author" content="xyfJASON">
-<meta property="article:tag" content="linear algebra">
 <meta property="article:tag" content="machine learning">
+<meta property="article:tag" content="linear algebra">
 <meta name="twitter:card" content="summary_large_image">
 <meta name="twitter:image" content="https://xyfjason.github.io/blog-main/gallery/cover/distance-subspace.jpeg">
   
@@ -538,9 +538,9 @@ A^\mathsf TB=U(\cos\Theta)V^\mathsf T,\quad \Theta=\text{diag}\left(\theta_1,\ld
     <div class="post-meta">
       <i class="iconfont icon-tags"></i>
       
-        <a href="/blog-main/tags/linear-algebra/" class="print-no-link">#linear algebra</a>
-      
         <a href="/blog-main/tags/machine-learning/" class="print-no-link">#machine learning</a>
+      
+        <a href="/blog-main/tags/linear-algebra/" class="print-no-link">#linear algebra</a>
       
     </div>
   

diff --git a/2024/06/19/神经网络的Lipschitz连续性/index.html b/2024/06/19/神经网络的Lipschitz连续性/index.html
@@ -30,8 +30,8 @@
 <meta property="article:published_time" content="2024-06-19T04:16:31.000Z">
 <meta property="article:modified_time" content="2025-09-26T03:48:33.785Z">
 <meta property="article:author" content="xyfJASON">
-<meta property="article:tag" content="linear algebra">
 <meta property="article:tag" content="machine learning">
+<meta property="article:tag" content="linear algebra">
 <meta name="twitter:card" content="summary_large_image">
 <meta name="twitter:image" content="https://xyfjason.github.io/blog-main/gallery/cover/lipschitz.jpeg">
   
@@ -531,9 +531,9 @@ W:=\frac{W}{\Vert W\Vert}=\frac{W}{\sigma_1(W)}
     <div class="post-meta">
       <i class="iconfont icon-tags"></i>
       
-        <a href="/blog-main/tags/linear-algebra/" class="print-no-link">#linear algebra</a>
-      
         <a href="/blog-main/tags/machine-learning/" class="print-no-link">#machine learning</a>
+      
+        <a href="/blog-main/tags/linear-algebra/" class="print-no-link">#linear algebra</a>
       
     </div>
   

diff --git a/index.html b/index.html
@@ -953,9 +953,9 @@
           <div class="post-meta">
             <i class="iconfont icon-tags"></i>
             
-              <a href="/blog-main/tags/linear-algebra/">#linear algebra</a>
-            
               <a href="/blog-main/tags/machine-learning/">#machine learning</a>
+            
+              <a href="/blog-main/tags/linear-algebra/">#linear algebra</a>
             
           </div>
         
@@ -1657,9 +1657,9 @@
           <div class="post-meta">
             <i class="iconfont icon-tags"></i>
             
-              <a href="/blog-main/tags/linear-algebra/">#linear algebra</a>
-            
               <a href="/blog-main/tags/machine-learning/">#machine learning</a>
+            
+              <a href="/blog-main/tags/linear-algebra/">#linear algebra</a>
             
           </div>
         

diff --git a/2021/07/03/什么是图像/index.html b/2021/07/03/什么是图像/index.html
@@ -382,7 +382,7 @@
     
       <span class="category-chain">
         
-  <a href="/blog-main/categories/%E8%AE%A1%E7%AE%97%E6%9C%BA%E8%A7%86%E8%A7%89/" class="category-chain-item">计算机视觉</a>
+  <a href="/blog-main/categories/%E5%9B%BE%E5%83%8F%E5%A4%84%E7%90%86/" class="category-chain-item">图像处理</a>
   
   
 
@@ -392,7 +392,7 @@
     
       <span class="category-chain">
         
-  <a href="/blog-main/categories/%E5%9B%BE%E5%83%8F%E5%A4%84%E7%90%86/" class="category-chain-item">图像处理</a>
+  <a href="/blog-main/categories/%E8%AE%A1%E7%AE%97%E6%9C%BA%E8%A7%86%E8%A7%89/" class="category-chain-item">计算机视觉</a>
   
   
 

diff --git a/page/4/index.html b/page/4/index.html
@@ -1460,7 +1460,7 @@
     
       <span class="category-chain">
         
-  <a href="/blog-main/categories/%E8%AE%A1%E7%AE%97%E6%9C%BA%E8%A7%86%E8%A7%89/" class="category-chain-item">计算机视觉</a>
+  <a href="/blog-main/categories/%E5%9B%BE%E5%83%8F%E5%A4%84%E7%90%86/" class="category-chain-item">图像处理</a>
   
   
 
